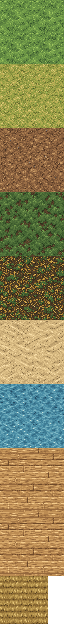
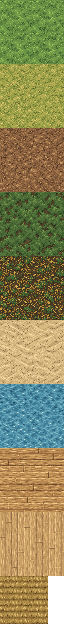
Playtest fixes: diagonals, stairs over stairs, ceilings, level changes, feet
- The reference's three-quarter front view faces left: mirrored on import,
  so walking down-right and down-left show the right sides.
- Clothes keep their own edge: boots cover the bare feet, nothing sticks
  out of the soles.
- Climb takes an optional dir: stairs above stairs lead both ways from one
  cell (F up, Shift+F down, a hint when both are there).
- Ceilings are lighter with planks across and cast a shadow on the floor
  at their south edge.
- Chunks are drawn progressively: those in sight at once, the rest nearest
  first within 6 ms a frame (going down took one 350 ms frame, now ~60).

Changed region(s): [[0.0, 0.8221, 1.0, 0.9439]]

diff --git a/tools/art/import_people.py b/tools/art/import_people.py
@@ -88,7 +88,11 @@ def place(img):
 def views(inc, name, extra_top=0):
     """{view: frame} of one reference: its sheet and its back three-quarter."""
     h = BODY_H + extra_top
-    out = dict(zip(SHEET_VIEWS, (place(f) for f in figures(inc / f"{name}.png", 4, h))))
+    figs = figures(inc / f"{name}.png", 4, h)
+    # The references' "three-quarter front-right" is turned to the viewer's
+    # left: mirrored, it is the view walking down-right (SE).
+    figs[1] = figs[1][:, ::-1]
+    out = dict(zip(SHEET_VIEWS, (place(f) for f in figs)))
     ne = inc / f"{name}_ne.png"
     out["ne"] = place(figures(ne, 1, h)[0]) if ne.exists() else out["n"]
     return out
@@ -276,16 +280,17 @@ def hair_layer(hair, body):
 
 def cloth_layers(outfit, body, rows):
     """An outfit's clothes split into torso, legs and feet. Clothes are its
-    pixels that are not skin, below the neck, without the outline the
-    generation drew (around the figure, and dark lines along bare skin):
-    the tool draws its own. Torso and legs part at the waist, the row where
+    pixels that are not skin, below the neck, without the dark lines the
+    generation drew along bare skin. Torso and legs part at the waist, the row where
     the clothes' colour changes most; the feet are the lowest sixth."""
     skin = is_skin(outfit, skin_of(body), tol=12.0)
     solid = outfit[..., 3] > 0
-    ring = solid & ~ndimage.binary_erosion(solid)
     lab = _lab(outfit[..., :3])
+    # The clothes keep their own edge (it becomes the outline again, and
+    # boots stay as big as the feet in them); the dark lines the generation
+    # drew along bare skin go.
     dark_line = (lab[..., 0] < 32) & ndimage.binary_dilation(skin)
-    cloth = solid & ~skin & ~ring & ~dark_line
+    cloth = solid & ~skin & ~dark_line
     y = np.arange(F)[:, None]
     cloth &= y > rows["neck"]
     means = [lab[r][cloth[r]].mean(0) if cloth[r].sum() >= 3 else None for r in range(F)]

diff --git a/tools/art/make_placeholders.py b/tools/art/make_placeholders.py
@@ -375,10 +375,15 @@ TEX = {}
 MAT_DIR = OUT / "art" / "materials"
 for _f in sorted(MAT_DIR.glob("*.png")) if MAT_DIR.exists() else []:
     TEX[_f.stem] = Image.open(_f).convert("RGBA")
+if "wood_floor" in TEX:
+    # A ceiling seen from above must not pass for the floor beside it: the
+    # planks run across and are lighter, as boards in the light.
+    _c = TEX["wood_floor"].transpose(Image.Transpose.ROTATE_90)
+    TEX["wood_ceiling"] = Image.blend(_c, Image.new("RGBA", _c.size, (236, 206, 150, 255)), 0.28)
 # Seamless textures laid over a grid of tiles: content id -> material.
 GRID_MATERIALS = {"base:grass": "grass", "base:grass_dry": "grass_dry", "base:dirt": "dirt", "base:moss": "moss",
                   "base:forest_floor": "forest_floor", "base:sand": "sand", "base:water": "water",
-                  "base:wood_floor": "wood_floor", "base:wood_ceiling": "wood_floor",
+                  "base:wood_floor": "wood_floor", "base:wood_ceiling": "wood_ceiling",
                   "base:thatch_roof": "roof_thatch"}
 
 

diff --git a/README.md b/README.md
@@ -18,7 +18,7 @@ tools/run_tests.sh      # headless-тесты; --bench добавляет мед
 tools/run_game.sh
 ```
 
-Скрипт сначала импортирует новые картинки и скрипты: после `git pull` это обязательно. Голый `godot --path .` сам ничего не импортирует, это делает только редактор. Подключение к выделенному серверу: `tools/run_game.sh --connect=адрес:порт`. Управление пока временное: WASD — ходить, 1–3 — выбрать деталь, ЛКМ — построить, ПКМ — разобрать.
+Скрипт сначала импортирует новые картинки и скрипты: после `git pull` это обязательно. Голый `godot --path .` сам ничего не импортирует, это делает только редактор. Подключение к выделенному серверу: `tools/run_game.sh --connect=адрес:порт`. Управление пока временное: WASD — ходить, 1–3 — выбрать деталь, ЛКМ — построить, ПКМ — разобрать, E — подобрать или открыть дверь, F — по лестнице вверх, Shift+F — вниз.
 
 Выделенный сервер:
 
